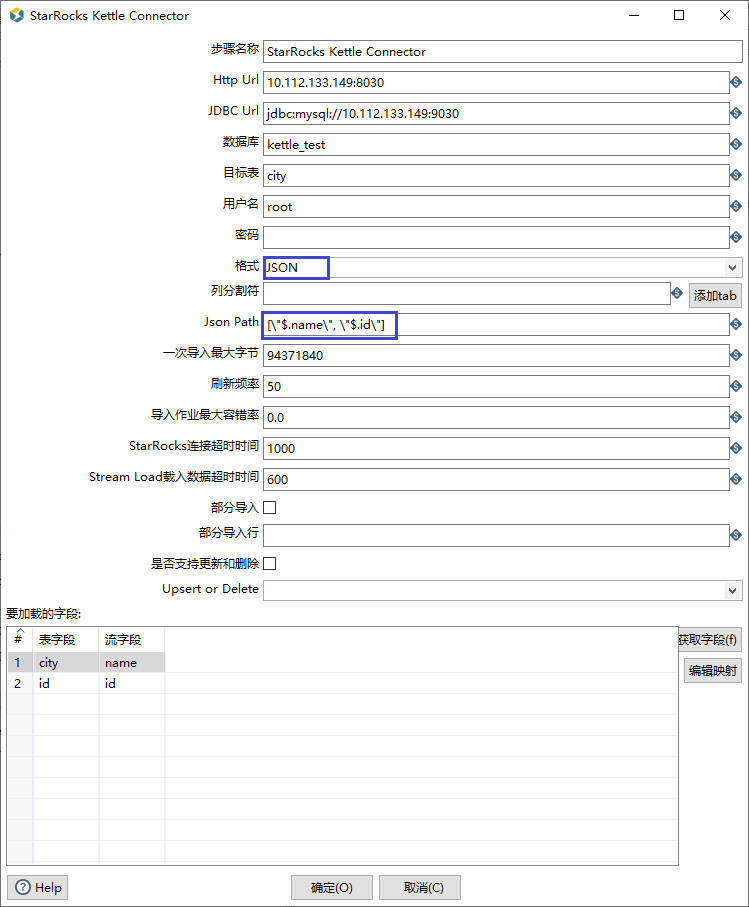
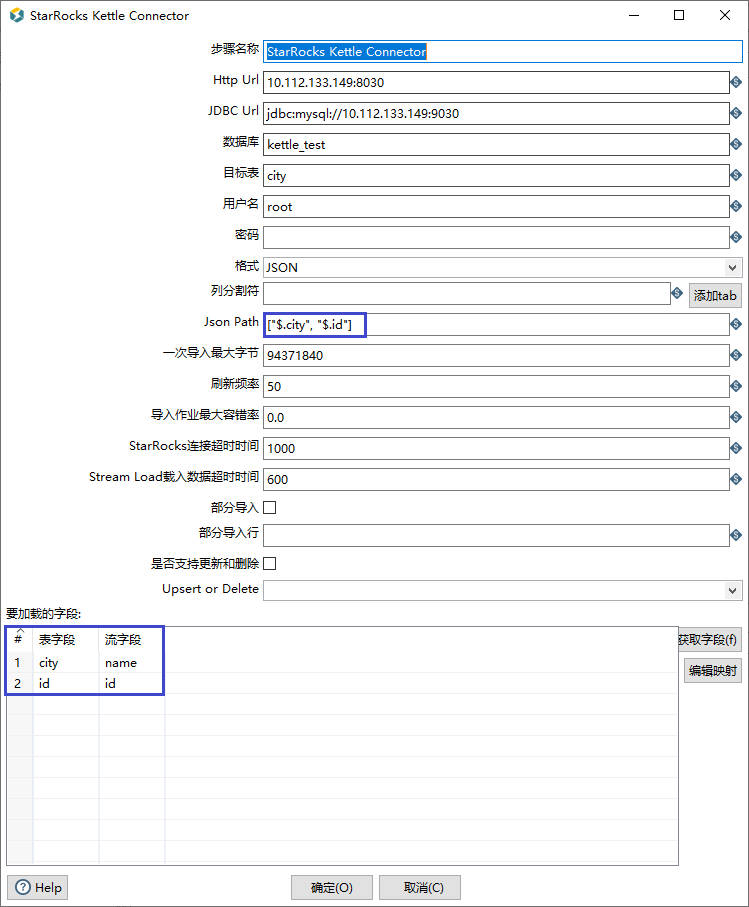
update the readme.

diff --git a/README.md b/README.md
@@ -185,7 +185,7 @@ DISTRIBUTED BY HASH(`id`);
 
 #### 使用Kettle读取csv文件数据
 
-1. 填写文件信息，并将列分割符改成“,”与CSV文件中一样。当CSV文件中没有列头行时取消列头行的勾选。
+1. 填写文件信息，并将列分割符改成`,`与CSV文件中一样。当CSV文件中没有列头行时取消列头行的勾选。
 
 ![img](image/5.jpg)
 
@@ -193,7 +193,7 @@ DISTRIBUTED BY HASH(`id`);
 
 > 点击**获取字段**，得到CSV中的字段信息和类型。
 >
-> 若CSV文件中没有包含头行信息，则**名称**列将会显示**Field_xxx**，为了后续步骤区分字段名称可以自行命名。
+> 若CSV文件中没有包含头行信息，则**名称**列将会显示`Field_xxx`，为了后续步骤区分字段名称可以自行命名。
 >
 > 字段类型Kettle会自动识别，如果需要更改可直接下拉菜单更改类型。
 
@@ -207,43 +207,119 @@ DISTRIBUTED BY HASH(`id`);
 
 #### 向StarRocks中导入数据
 
-1. 配置StarRocks数据导入参数。(最终开发会实现如上ui输入框的格式来进行参数的输入)
+1. 添加StarRocks Kettle Connector插件，将**CSV文件输入**步骤输出的数据导入**StarRocks Kettle Connector**。
 
-```Java
-'scan-url'='127.0.0.1:8030'
-'jdbc-url'='jdbc:mysql://127.0.0.1:9030'
-'username'='root'
-'password'=''
-'database-name'='kettle_test'
-'table-name'='test_table'
-'format'='CSV'
-'semantic'='exactly-once'
-'loadProps'={}
-```
+![](image/13.jpg)
 
-1. 点击开始按钮执行导入作业
+2. 如下图所示配置StarRocks Kettle Connector插件参数。
+
+![](image/12.jpg)
+
+> **说明**
+>
+> 您可以通过 [SHOW FRONTENDS](https://docs.starrocks.io/zh-cn/latest/sql-reference/sql-statements/Administration/SHOW FRONTENDS) 命令查看 FE 节点的 IP 地址和 HTTP 端口号。
+
+此处**列分割符**与上一步**CSV文件输入**中的分隔符并无关联可随意指定。当连接StarRocks时不需**密码**时填写为空即可。
+
+最下面表格中，**表字段**为目标StarRocks数据库表字段，**流字段**为上一步骤中传来的字段名称。若两者对应关系出现错误，需要更改**表字段**使其与流字段对应，不要改变流字段的顺序。可以直接在表字段名称上下拉菜单更改，也可点击右侧**编辑映射**。
+
+![](image/14.jpg)
+
+4. 点击开始按钮执行导入作业
+
+点击左上的开始按钮则开始转换，转换成功如下图所示。
 
 ![img](image/7.jpg)
 
-1. 查询导入结果
+5. 查询导入结果
 
 ```SQL
-MySQL [kettle_test]> select * from test_table;
-+------+-----------+-------+
-| id   | name      | scores|
-+------+-----------+-------+
-|    1 | Lily      |   23  |
-|    2 | Rose      |   23  |
-|    3 | Alice     |   24  |
-|    4 | Julia     |   25  |
-+------+-----------+-------+
-4 rows in set (0.02 sec)
+StarRocks > select * from student;
++------+-------+-------+
+| id   | name  | score |
++------+-------+-------+
+|    3 | Alice |    24 |
+|    1 | Lily  |    23 |
+|    2 | Rose  |    23 |
+|    4 | Julia |    25 |
++------+-------+-------+
+4 rows in set (0.01 sec)
 ```
+
+### 导入JSON格式的数据
+
+#### 数据准备
+
+1. 在本地文件系统中创建一个 JSON 格式的数据文件 `example2.json`。文件一共包含两个字段，分别代表城市名称和城市 ID，如下所示：
+
+~~~json
+{"name": "北京", "id": 1}
+~~~
+
+2. 在数据库 `kettle_test` 中创建一张名为 `city` 的主键模型表。表包含 `id` 和 `city` 两列，主键为 `id` 列，如下所示：
+
+~~~mysql
+CREATE TABLE `city`
+(
+    `id` int(11) NOT NULL COMMENT "城市 ID",
+     `city` varchar(65533) NULL COMMENT "城市名称"
+)
+ENGINE=OLAP
+PRIMARY KEY(`id`)
+DISTRIBUTED BY HASH(`id`);
+~~~
+
+
+
+#### 使用Kettle读取JSON文件数据
+
+1. 在Kettle中添加**JSON Input**插件，并配置信息。
+
+![](image/15.jpg)
+
+在**文件或路径**中添加`example2.json`文件路径，点击添加即可在选中的文件中看到**文件或路径**中填写的路径。
+
+在**字段**中选择`Select fields`，并选择要导入的字段信息。与**CSV**相同要根据具体的数据与StarRocks库中的数据类型相对应更改**类型字段**。
+
+![](image/16.jpg)
+
+
+
+#### 向StarRocks中导入数据
+
+1. 配置StarRocks参数
+
+![](image/17.jpg)
+
+> 目前暂不支持列计算
+
+其余配置与**CSV**基本相同，需要更改**格式**与**Json Path**参数。其中Json Path顺序需要和表字段相同或不填写。
+
+2. 启动任务查询结果
+
+~~~mysql
+StarRocks > select * from city;
++------+--------+
+| id   | city   |
++------+--------+
+|    1 | 北京   |
++------+--------+
+1 row in set (0.00 sec)
+~~~
+
+
+
+### 数据变更
+
+
+
+### 部分导入
 
 # Limitation
 
 - 不支持at-least-once和exactly-once导入方式。
 - 只支持CSV和JSON两种数据格式。
+- 暂不支持列数据计算，只可通过在Kettle中增加相关步骤进行过滤转换。
 
 ## 目前还未实现
 - 没有添加addHeaders(getSinkStreamLoadProperties())。未获取多余的StarRocks的参数配置。
